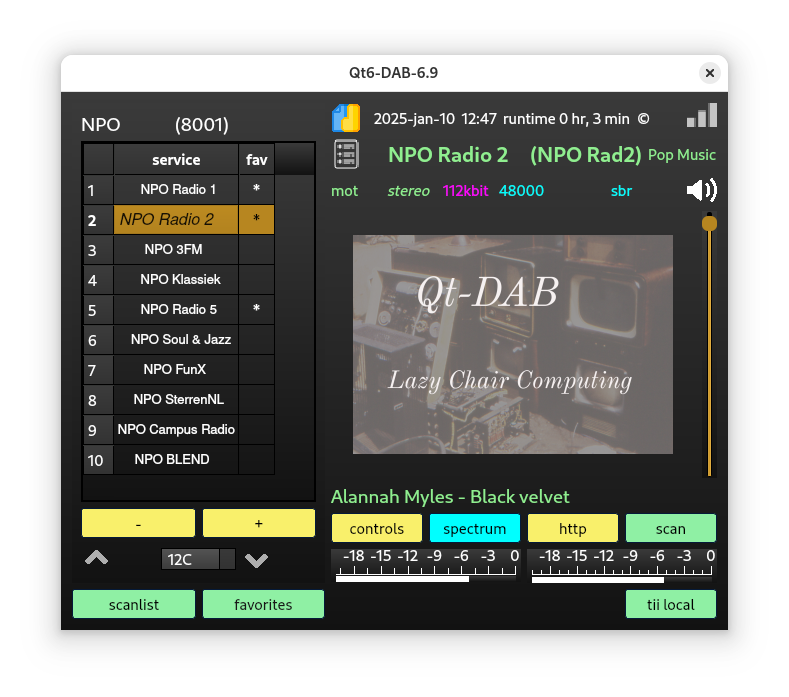
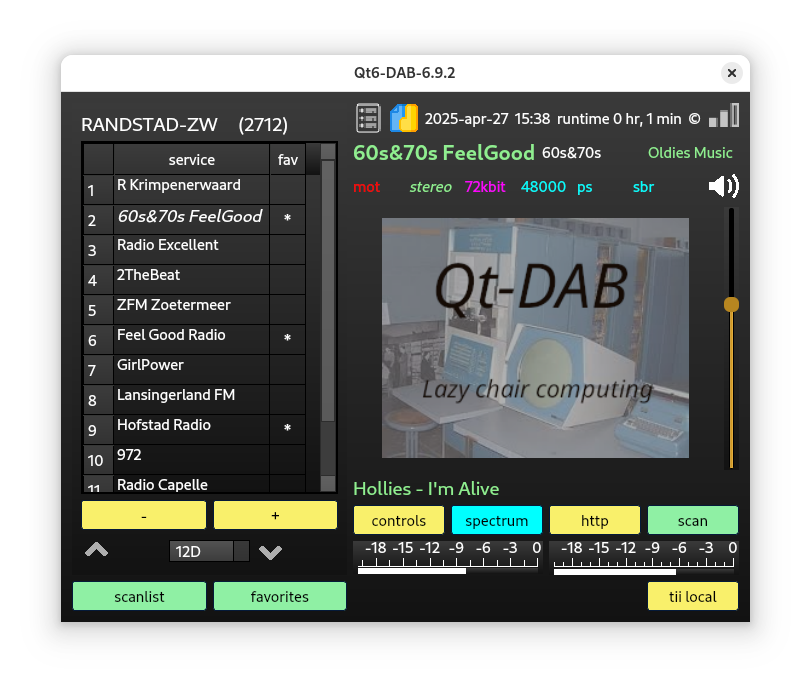
update readme

Changed region(s): [[0.0608, 0.0914, 0.943, 0.9144], [0.3346, 0.6096, 0.365, 0.6401], [0.0608, 0.1219, 0.0913, 0.1524]]

diff --git a/qt-dab-6.9/support/config-handler.cpp b/qt-dab-6.9/support/config-handler.cpp
@@ -188,7 +188,7 @@ int	index_for_key (int key) {
 	                                 "decoders", DECODER_1);
 	decoderSelector	-> setCurrentIndex (index_for_key (k));
 
-	int v = value_i (dabSettings, CONFIG_HANDLER, "tii-detector", 1);
+	int v = value_i (dabSettings, CONFIG_HANDLER, TII_DETECTOR_SETTING, 1);
 	this	-> tiiSelector	-> setChecked (v != 0);
 	if (v == 0) {
 	   tiiCollisions -> setEnabled (false);
@@ -510,7 +510,7 @@ QString fontColorButton_font	=
 	   value_s (dabSettings, COLOR_SETTINGS,
 	                              FONTCOLOR_BUTTON + "_font", WHITE);
 QString	fontColorButton_color =
-	   value_s (dabSettings, "COLOR_SETTINGD",
+	   value_s (dabSettings, COLOR_SETTINGS,
 	                              FONTCOLOR_BUTTON + "_color", BLACK);
 
 QString devicewidgetButton_color =
@@ -759,13 +759,13 @@ void	configHandler::handle_ordersubChannelIds	() {
 }
 
 void	configHandler::handle_portSelector () {
-QString oldPort	= value_s (dabSettings, "MAP_HANDLING",
+QString oldPort	= value_s (dabSettings, MAP_HANDLING,
 	                                 MAP_PORT_SETTING, "8080");
 mapPortHandler theHandler (oldPort);
 	int portNumber = theHandler. QDialog::exec ();
 	if (portNumber != 0) {
 	   QString ss = QString::number (portNumber);
-	   store (dabSettings, "MAP_HANDLING", MAP_PORT_SETTING, ss);
+	   store (dabSettings, MAP_HANDLING, MAP_PORT_SETTING, ss);
 	}
 }
 
@@ -1020,7 +1020,7 @@ bool    x       = tiiFilter     -> isChecked ();
 void	configHandler::handle_tiiSelector	(int state) {
 bool	x 	= tiiSelector	-> isChecked ();
 	(void)state;
-	store (dabSettings, CONFIG_HANDLER, "tii-detector", x ? 1 : 0);
+	store (dabSettings, CONFIG_HANDLER, TII_DETECTOR_SETTING, x ? 1 : 0);
 	tiiCollisions -> setEnabled (x);
 	if (x) 
 	   tiiThreshold_setter -> setMinimum (6);

diff --git a/qt-dab-6.9/support/ensemble-handler.cpp b/qt-dab-6.9/support/ensemble-handler.cpp
@@ -757,7 +757,7 @@ void	ensembleHandler::handle_scheduledSelect (const QString &name,
 }
 
 void	ensembleHandler::set_serviceOrder	(int order) {
-	store (ensembleSettings, ENSEMBLE,"serviceOrder", order);
+	store (ensembleSettings, ENSEMBLE, "serviceOrder", order);
 	serviceOrder	= order;
 }
 

diff --git a/includes/support/settingNames.h b/includes/support/settingNames.h
@@ -30,7 +30,7 @@
 #define	SAVE_SLIDES_SETTING		"saveSlides"
 #define	TRANSMITTER_NAMES_SETTING	"transmitterNames"
 
-#define	COLOR_SETTINGS		"COLOR_SETTINGS"
+#define	COLOR_SETTINGS		"colorSettings"
 #define	SKIN_SETTING		"skin"
 #define	SAVE_SERVICE_SETTING	"saveService"
 

diff --git a/README.md b/README.md
@@ -42,7 +42,7 @@ Introduction
 =================================================================
 
 *Qt-DAB* is designed to be used  with a broad variety of SDR devices.
-Qt-DAB  has built-in support for a DABsticks, all models of the SDRplay,
+Qt-DAB  supports  a DABsticks, all models of the SDRplay,
 Airspy, HackRF, LimeSDR, Adalm Pluto etc.
 Precompiled versions for Windows and Linux (x64) are available.
 Thanks to Richard Huber, *Qt-DAB* can be compiled on the Mac as well.
@@ -78,7 +78,7 @@ Features
 Widgets and scopes
 =======================================================================
 
-![6.9](/res/read_me/Qt_DAB-6.9.2.png)
+![6.9](/res/read_me/Qt_DAB-6.9.1.png)
 
 The *mainWidget* (see picture) of Qt-DAB (always visible), contains settings for controlling the visibility of other widgets.
 It shows - left half - a list of services (either from the currently selected channel or from the favourites), seleting a service is just by clicking on the name.
@@ -94,7 +94,7 @@ a spectrum of the audio of the selected service;
  * touching the icon showing a *speaker* controls muting the signal and shows
 whether or not a signal should be audible.
  * touching the *copyright symbol* shows (or, if visible, hides) a small widget with some acknowledgements for using external libraries;
- * touching with the *right hand mouse button* the text of the dynamic label (Alannah Myles - Black Velvet) shows a small menu to put the text on the clipboard;
+ * touching with the *right hand mouse button* the text of the dynamic label (NPO Radio 1- NOS Langs de lijn - NOS) shows a small menu to put the text on the clipboard;
  * the button labeled *scan* controls the visibility of a the scan handler widget;
  * the button labeled *http* controls the http handler with which a map )with the transmitters) will be shown;
  * the button labeled *spectrum* controls the visibility of the spectrum widget, a widget that contains views on and information of the DAB signal itself;
@@ -102,7 +102,8 @@ whether or not a signal should be audible.
  * the button labeled *favourites* controls  whether the list of services
 from the currently selected channel of the list of favourites is shown,
  * the button labeled *scanlist* controls the visibility
-of the scan list, i.e the list of services seen at the most recent scan.
+of the scan list, i.e the list of services seen at the most recent scan.;
+ * the bottom line shows the transmitter name from which the data is received.
 
 (Obviously, the colors of the buttons, as well as the *font*, the *font size* and the *font color* of the service list shown can be set by the user, just click with the right hand mouse button on a button).
 
@@ -257,6 +258,18 @@ the position(s) of the transmitter(s) received on the map.
 Note that two preconditions have to be met:
  * a "home" location has to be known (see the button *coordinates*);
  * the TII database is installed (see the button *refresh table*)l
+
+New in the current version of Qt-DAB is the display of the channels that
+contain data, together with the TII value (mainId, subId) of the transmitter.
+Clicking on a transmitterlocation, displays the details of that location, i.e.
+the distance and some data of the transmitters on that location.
+(Clicking a second time causes that detailed specification to disappear from the screen.
+
+The picture shows some channels I receive with a simple whip net to my "lazy chair".
+
+Of course, using a more advanced antenna. more transmitters show, as seen on the picture below (courtesy of Herman Wijnants)
+
+![6.8](/res/read_me/good-antenna.png?raw=true)
 
 The webbrowser listens to port 8080. By default, the "standard" browser
 on the system is activated. The *configuration and control* widget
